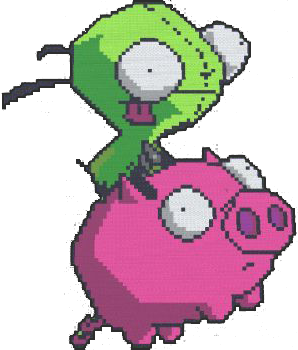
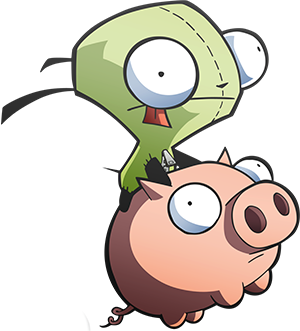
graphic updates, css & html.

diff --git a/src/styles.css b/src/styles.css
@@ -120,17 +120,6 @@ table{
   width: 80px;
 }
 
-#logo {
-  background-image: url('logo.png');
-  background-size: cover;
-  background-repeat: no-repeat;
-  width: 254px;
-  height: 75px;
-  margin-left: auto;
-  margin-right: auto;
-  margin-top: 50px;
-}
-
 .start_screen_links {
   color: white;
   position: relative;
@@ -146,6 +135,36 @@ table{
   display: block;
   margin-top: -55px;
   margin-bottom: 10px;
+}
+
+#standing-gir {
+  background-image: url('../assets/girnpig.png');
+  display: inline-block;
+  height: 100px;
+  width: 40px;
+  background-size: cover;
+  background-repeat: no-repeat;
+  margin-left: -425px;
+  margin-bottom: -20px;
+}
+
+.solo-bee, .solo-bee2 {
+  background-image: url('../assets/bee2.png');
+  display: inline-block;
+  height: 40px;
+  width: 40px;
+  background-size: cover;
+  background-repeat: no-repeat;
+  margin-left: 200px;
+  margin-bottom: -80px;
+}
+
+.solo-bee2 {
+  margin-left: 235px;
+}
+
+.minor {
+  margin-bottom: -40px;
 }
 
 

diff --git a/index.html b/index.html
@@ -21,7 +21,9 @@
       <div id="overlay">
         <div id="start-screen">
           <div>
-            <h4>Gir’s</h4>
+            <div class="solo-bee"></div>
+            <h4 class="minor">Gir’s</h4>
+            <div id="standing-gir"></div>
             <h1 class="headline">ENDLESS ADVENUTRE</h1>
             <div class="divider"></div>
             <p>
@@ -58,7 +60,7 @@
 
         <!-- The Modal -->
         <div id="myModal">
-
+          <div class="solo-bee2"></div>
           <h4>WELCOME TO DOOM!</h4>
           <h1 id="final-score" class="headline"></h1>
           <div class="divider"></div>

diff --git a/src/index.js b/src/index.js
@@ -33,7 +33,7 @@ document.addEventListener('DOMContentLoaded', function() {
   // CREATE GIR
   let flyingGir = document.createElement("div");
   flyingGir.setAttribute("id", "gir");
-  flyingGir.style.width = '85px';
+  flyingGir.style.width = '91px';
   flyingGir.style.height = '100px';
   flyingGir.style.top = '280px';
   flyingGir.style.left = '25px';
